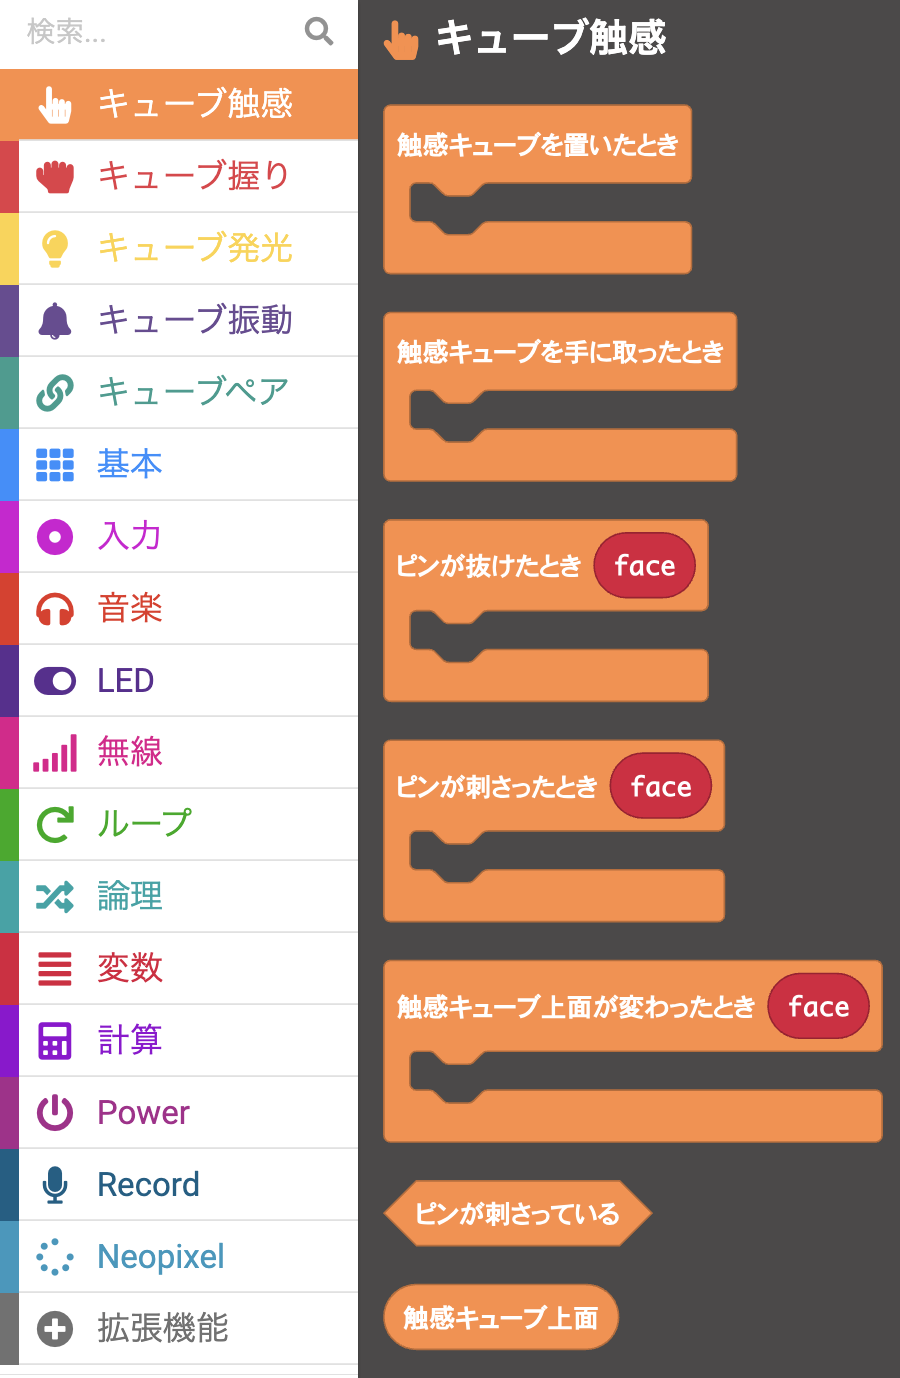
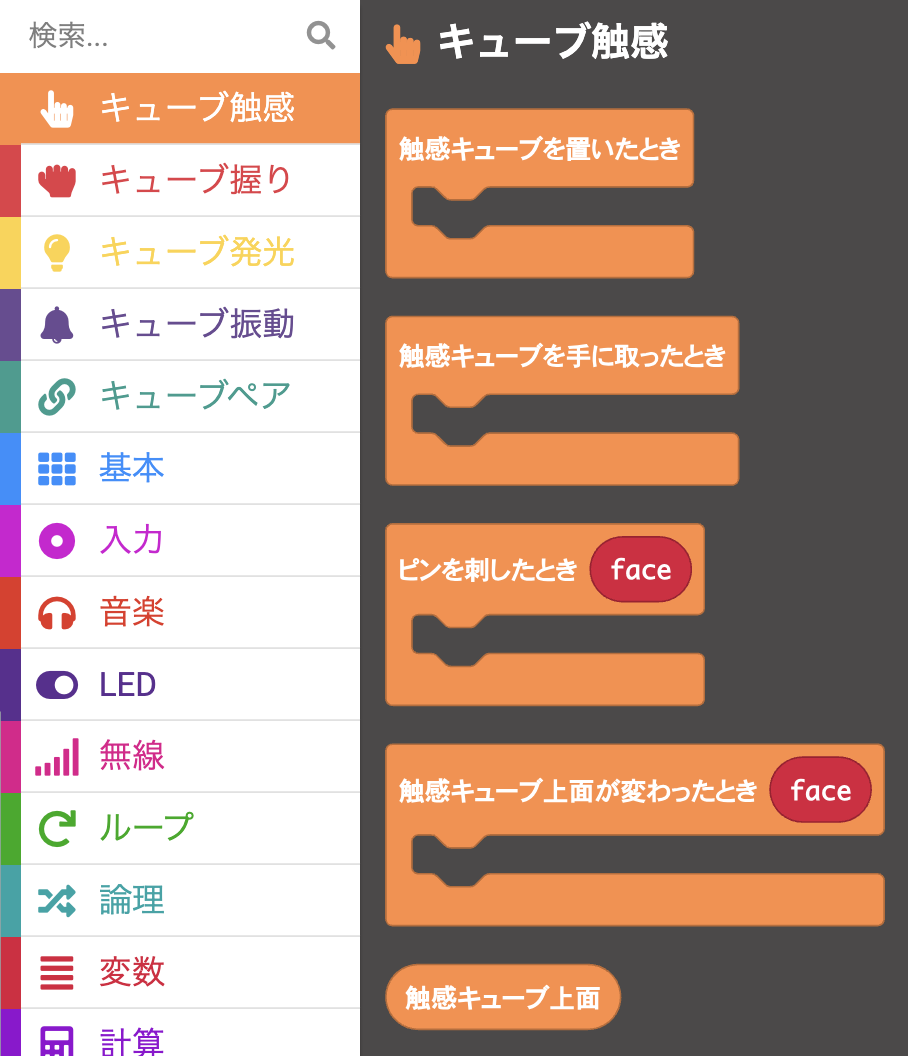
単一イベントモデル移行と同期スクリプト廃止をドキュメントに反映
overview.mdのcubeTouch説明と対応するブロック一覧画像を現行APIに合わせ、
アプリ層のblocks編集手順をmakecode-app-edit skillの削除に伴いdevelopment.mdへインライン化した

diff --git a/docs/development.md b/docs/development.md
@@ -72,7 +72,14 @@ mood-cube-blocksは公開APIを提供する側、grip/touch/blocks-testは利用
 
 アプリ層は子供がMakeCodeのwebエディタ ([https://makecode.microbit.org/](https://makecode.microbit.org/)) でblocksを並べて作る。コードの編集はwebエディタでのみ行い、ローカルから `main.ts` / `main.blocks` を変更しない。ローカルで `main.ts` を編集してdecompileで `main.blocks` を再同期する運用は、blocksのレイアウトが初期化される事故が起きたため廃止した (2026-07-12)。
 
-ローカルからやってよいのは、`pxt.json` の拡張依存ハッシュの手動更新だけ。手順と制約は [makecode-app-edit skill](../.claude/skills/makecode-app-edit/SKILL.md) に書いてある。ハッシュ更新のpush後は、webエディタでプロジェクトを開き、画面下部のGitHubボタンからpullして、blocks表示を目視確認する。
+ローカルからやってよいのは、`pxt.json` の拡張依存ハッシュの手動更新だけ。手順は次のとおり。
+
+1. 拡張リポジトリで対象コミットのハッシュを確認する
+2. アプリ層の `pxt.json` の `"mood-cube-blocks": "github:hideosasaki/mood-cube-blocks#<hash>"` を書き換える
+3. `pxt.json` だけをcommitしてpushする (`main.ts` / `main.blocks` には触らない)
+4. webエディタでプロジェクトを開き、画面下部のGitHubボタンからpullして、blocks表示を目視確認する。拡張のブロック構成が変わった場合 (ブロック廃止など) は、灰色ブロックの整理もwebエディタ側で行う
+
+拡張の未pushの変更を実機で試すときは、`pxt.json` を一時的に `"file:../mood-cube-blocks"` へ切り替えてビルドする。この切り替えはcommitせず、ビルド後すぐGitHubハッシュ参照に戻す。
 
 - mood-cube-grip: [https://makecode.microbit.org/#github:hideosasaki/mood-cube-grip](https://makecode.microbit.org/#github:hideosasaki/mood-cube-grip)
 - mood-cube-touch: [https://makecode.microbit.org/#github:hideosasaki/mood-cube-touch](https://makecode.microbit.org/#github:hideosasaki/mood-cube-touch)
